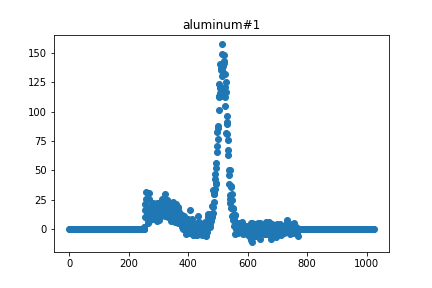
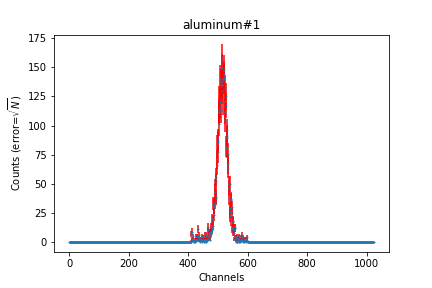
update

diff --git a/COMP/compton_analysis.py b/COMP/compton_analysis.py
@@ -6,7 +6,7 @@ Author: Samuel Wong
 """
 import numpy as np
 import matplotlib.pyplot as plt
-from my_odr_fit import my_odr_fit
+from scipy.optimize import curve_fit
 
 def load(file):
     data = np.loadtxt(file)
@@ -16,13 +16,22 @@ def load(file):
 
 def load_adjusted(file):
     channel, counts = load(file)
-    counts = counts - noise
+    counts = np.abs(counts - noise)
     return counts
 
 def plot(channel,counts,title):
     plt.figure()
     plt.title(title)
     plt.scatter(channel,counts)
+    plt.savefig(title+".png")
+    plt.show()
+    
+def plot_with_error_bar(channel,counts,error,title):
+    plt.figure()
+    plt.title(title)
+    plt.errorbar(x=channel,y=counts,yerr=error,ecolor='r',fmt='o',markersize=1)
+    plt.ylabel('Counts (error=$\sqrt{N}$)')
+    plt.xlabel('Channels')
     plt.savefig(title+".png")
     plt.show()
     
@@ -33,12 +42,22 @@ def load_and_plot(file,title):
 
 def load_adjusted_and_plot(file,title):
     counts = load_adjusted(file)
-    plot(channel,counts,title)
-    return counts
+    counts[0:410] = 0
+    counts[600:] = 0
+    uncertainty = np.sqrt(counts)
+    plot_with_error_bar(channel,counts,uncertainty,title)
+    return counts, uncertainty
 
+def gaussian(x,a,b,c):
+    return a*np.exp(-((x-b)**2)/(2*c**2))
+    
+    
 #load and plot the noise counts
 channel, noise = load_and_plot("data/noise.txt","noise")
 #load and plot counts for different absorbers with noise subtracted
-alum1 = load_adjusted_and_plot("data/aluminum#1.txt","aluminum#1")
-                               
+alum1, d_alum1 = load_adjusted_and_plot("data/aluminum#1.txt","aluminum#1")
+                         
+
+popt, pcov = curve_fit(gaussian, xdata=channel, ydata=alum1, sigma=d_alum1, 
+                       p0=(150,540,20), maxfev=20000)                
 
